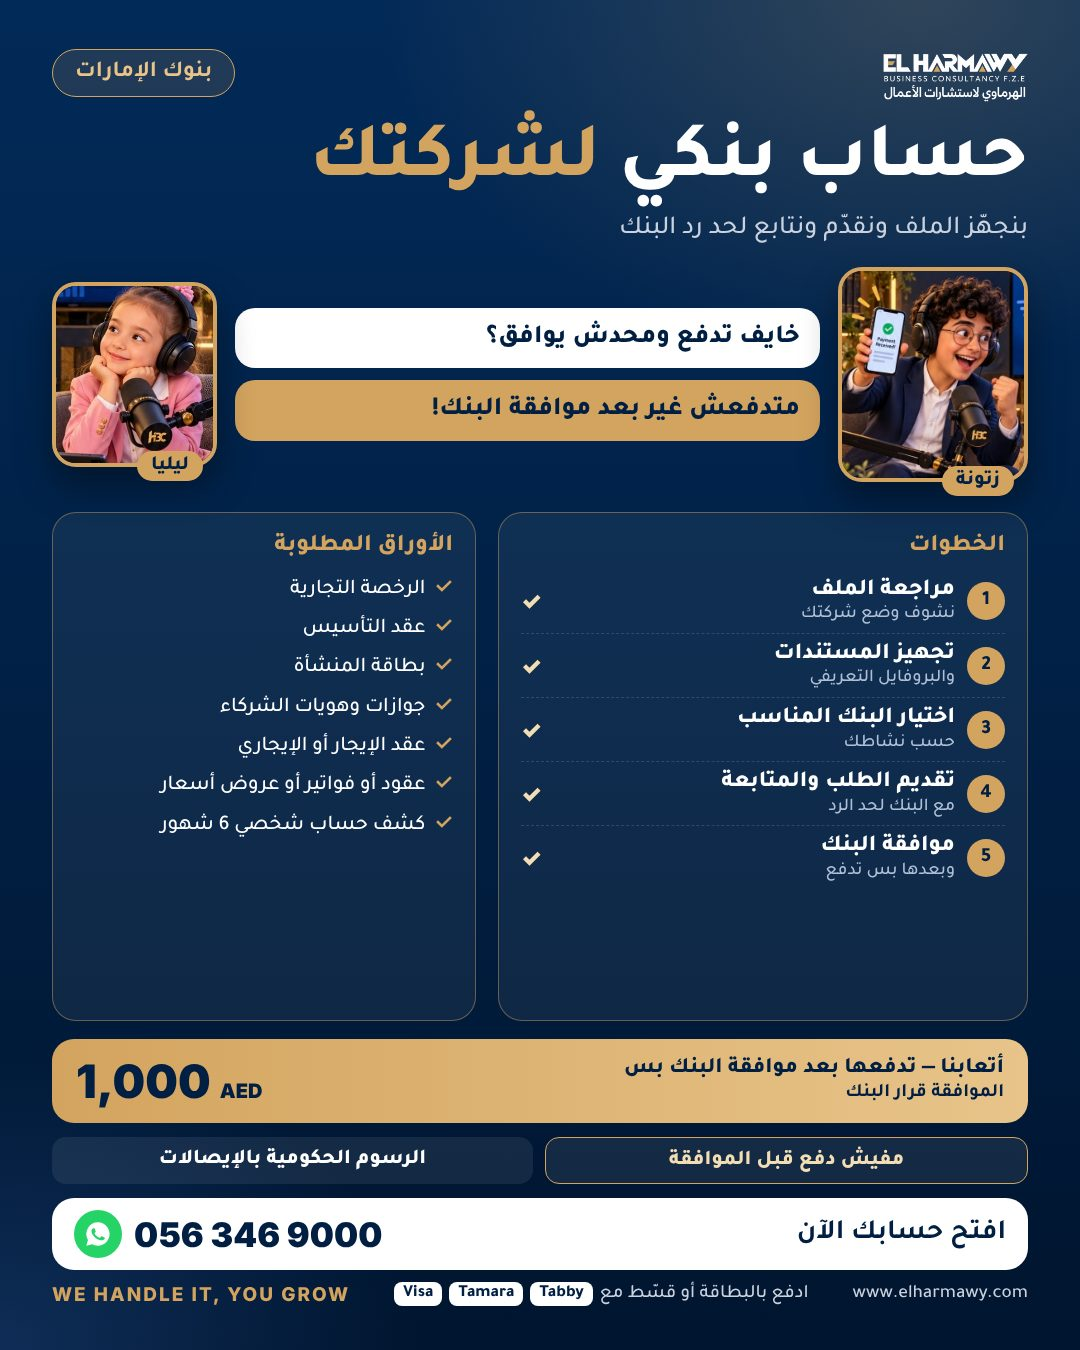
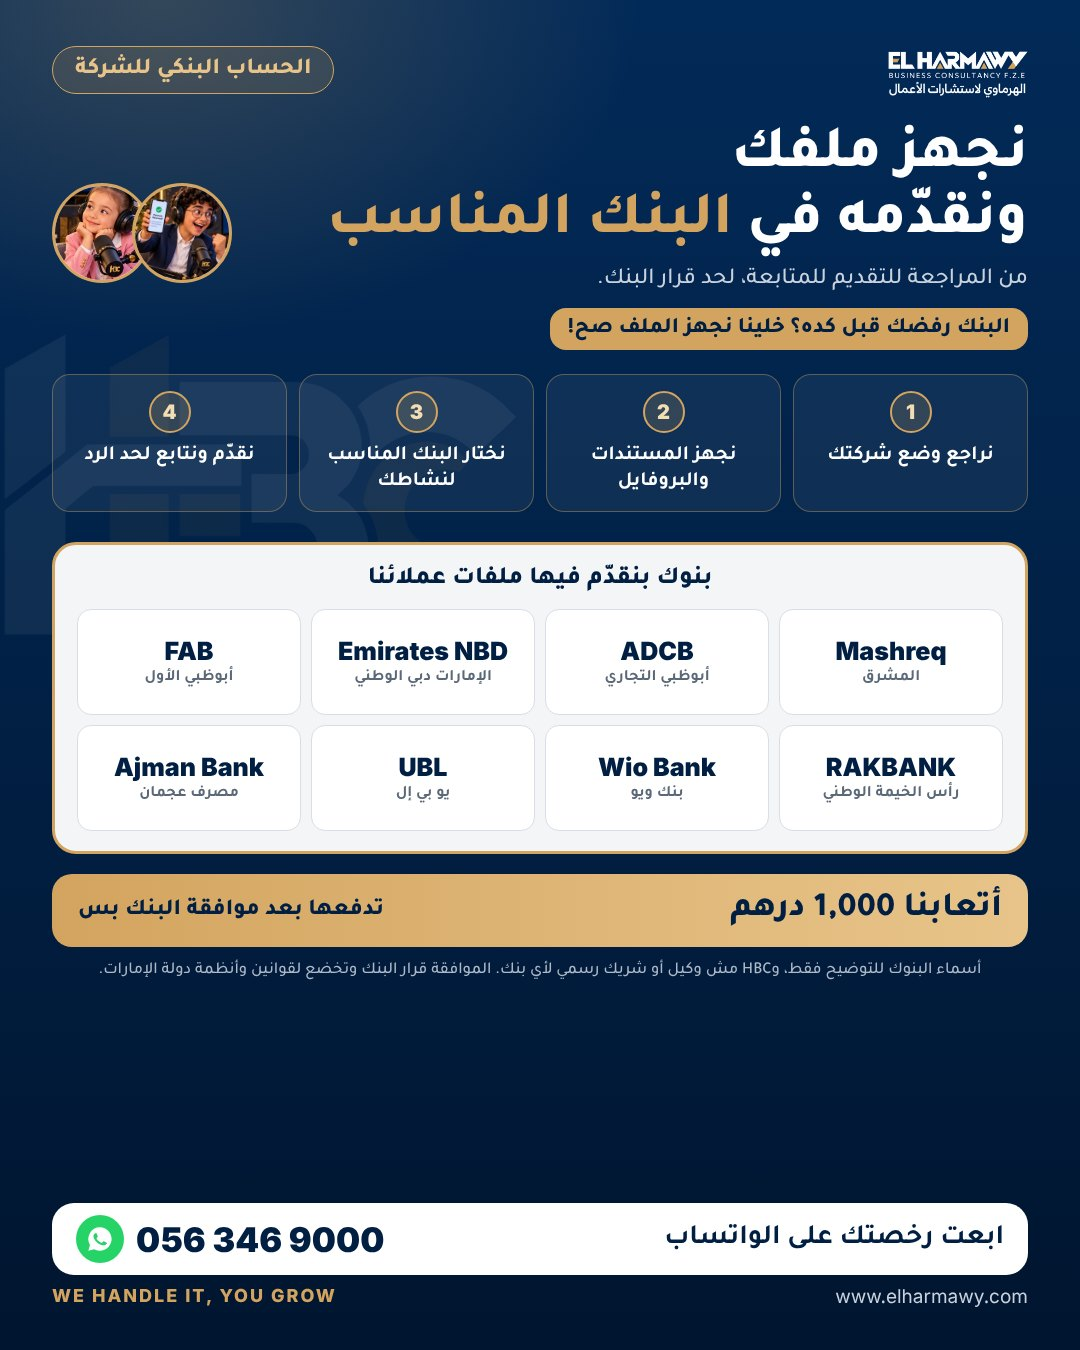
Bank account guide: banks we submit files to, with no-affiliation note
Claude-Session: https://claude.ai/code/session_01MtsGVKzBjK14nddn5v4Pte

diff --git a/sw.js b/sw.js
@@ -1,5 +1,5 @@
 // HBC app service worker: makes the site installable and opens offline with the last saved copy.
-const CACHE = "hbc-v15";
+const CACHE = "hbc-v16";
 const CORE = ["/", "/site.css", "/logo.png", "/favicon.png", "/founder.jpg", "/icons/icon-192.png", "/manifest.webmanifest"];
 
 self.addEventListener("install", e => {
